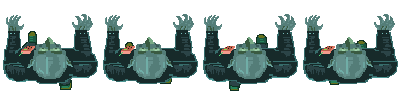
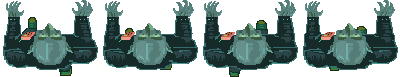
Remove whitespace from sprites. Fix z-positioning of walls.

diff --git a/js/game.js b/js/game.js
@@ -6,13 +6,13 @@ window.onload = function() {
       PLAYER_SPEED              = 5,
       ENEMY_SPEED               = 1,
       ENEMY_WIDTH               = 100,
-      ENEMY_HEIGHT              = 100,
+      ENEMY_HEIGHT              = 77,
       NUMBER_FONT_SIZE          = 20,
       WORLD_WIDTH               = VIEWPORT_WIDTH * 3,
       WORLD_HEIGHT              = VIEWPORT_HEIGHT * 3,
       WALL_SIZE                 = 50,
       PLAYER_WIDTH              = 100,
-      PLAYER_HEIGHT             = 100,
+      PLAYER_HEIGHT             = 70,
       INITIAL_ENEMY_COUNT       = 25,
       FLOOR_IMAGE               = 'img/ground.gif',
       WALL_HORIZONTAL_IMAGE     = 'img/wall_horizontal.gif',
@@ -136,27 +136,27 @@ window.onload = function() {
 
       // Create the floor
       Crafty.e("2D, DOM, Image")
-       .attr({w: WORLD_WIDTH, h: WORLD_HEIGHT, z: -1})
+       .attr({w: WORLD_WIDTH, h: WORLD_HEIGHT, z: -5})
        .image(FLOOR_IMAGE, "repeat");
 
       // Create the walls
       // Left
       Crafty.e("2D, DOM, Image")
-        .attr({w: WALL_SIZE, h: WORLD_HEIGHT, x: 0, y: 0})
+        .attr({w: WALL_SIZE, h: WORLD_HEIGHT, x: 0, y: 0, z: -3})
         .image(WALL_VERTICAL_IMAGE, "repeat")
       // Right
       Crafty.e("2D, DOM, Image")
-        .attr({w: WALL_SIZE, h: WORLD_HEIGHT, x: WORLD_WIDTH - WALL_SIZE, y: 0})
+        .attr({w: WALL_SIZE, h: WORLD_HEIGHT, x: WORLD_WIDTH - WALL_SIZE, y: 0, z: -3})
         .image(WALL_VERTICAL_IMAGE, "repeat")
         .flip("X")
       // Bottom
       Crafty.e("2D, DOM, Image")
-        .attr({w: WORLD_WIDTH, h: WALL_SIZE, x: 0, y: WORLD_HEIGHT - WALL_SIZE})
+        .attr({w: WORLD_WIDTH, h: WALL_SIZE, x: 0, y: WORLD_HEIGHT - WALL_SIZE, z: -3})
         .image(WALL_HORIZONTAL_IMAGE, "repeat")
         .flip("Y")
       // Top
       Crafty.e("2D, DOM, Image")
-        .attr({w: WORLD_WIDTH, h: WALL_SIZE, x: 0, y: 0})
+        .attr({w: WORLD_WIDTH, h: WALL_SIZE, x: 0, y: 0, z: -3})
         .image(WALL_HORIZONTAL_IMAGE, "repeat");
     },
 
@@ -341,8 +341,8 @@ window.onload = function() {
   });
 
   Crafty.scene("loading", function() {
-    Crafty.sprite(100, "img/hero.png", {PlayerSprite: [0, 0]});
-    Crafty.sprite(100, "img/enemy1.png", {EnemySprite: [0, 0]});
+    Crafty.sprite(100, 70, "img/hero.png", {PlayerSprite: [0, 0]});
+    Crafty.sprite(100, 77, "img/enemy1.png", {EnemySprite: [0, 0]});
 
     Crafty.e("2D, Color, DOM, Text, Mouse")
       .attr({w: 300, h: 100, x: HALF_VIEWPORT_HEIGHT, y: HALF_VIEWPORT_HEIGHT})
